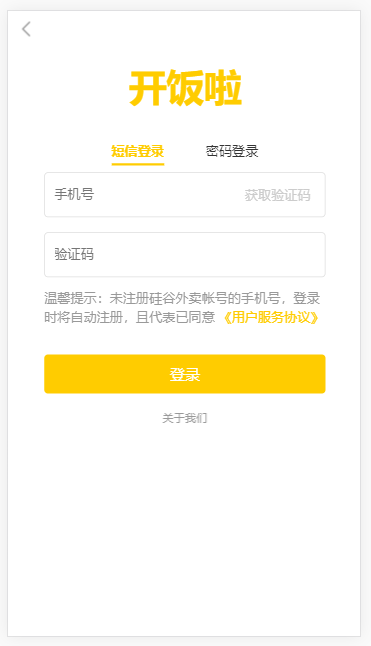
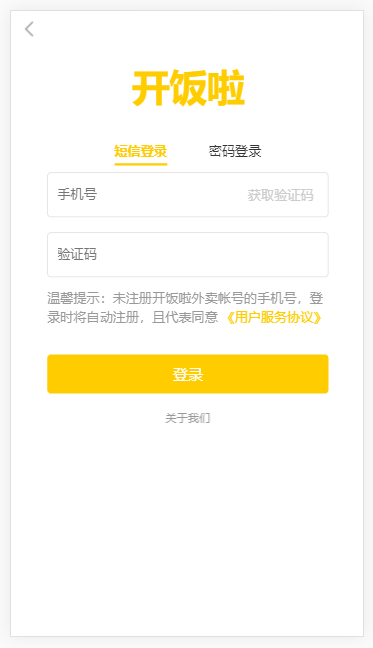
Submission

diff --git a/src/pages/login/login.vue b/src/pages/login/login.vue
@@ -22,7 +22,7 @@
                             <input type="text" maxlength="8" placeholder="验证码" v-model="code">
                         </section>
                         <section class="login-hint">
-                            温馨提示：未注册硅谷外卖帐号的手机号，登录时将自动注册，且代表已同意
+                            温馨提示：未注册开饭啦外卖帐号的手机号，登录时将自动注册，且代表同意
                             <a href="">《用户服务协议》</a>
                         </section>
                     </div>
